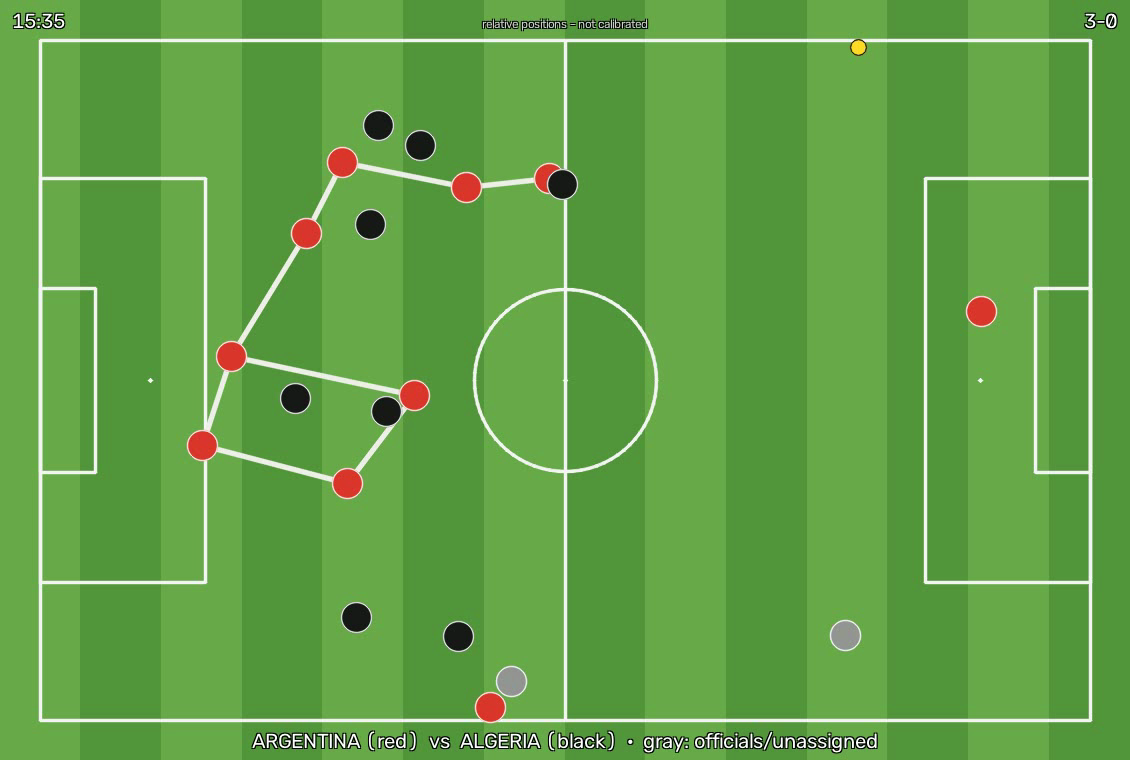
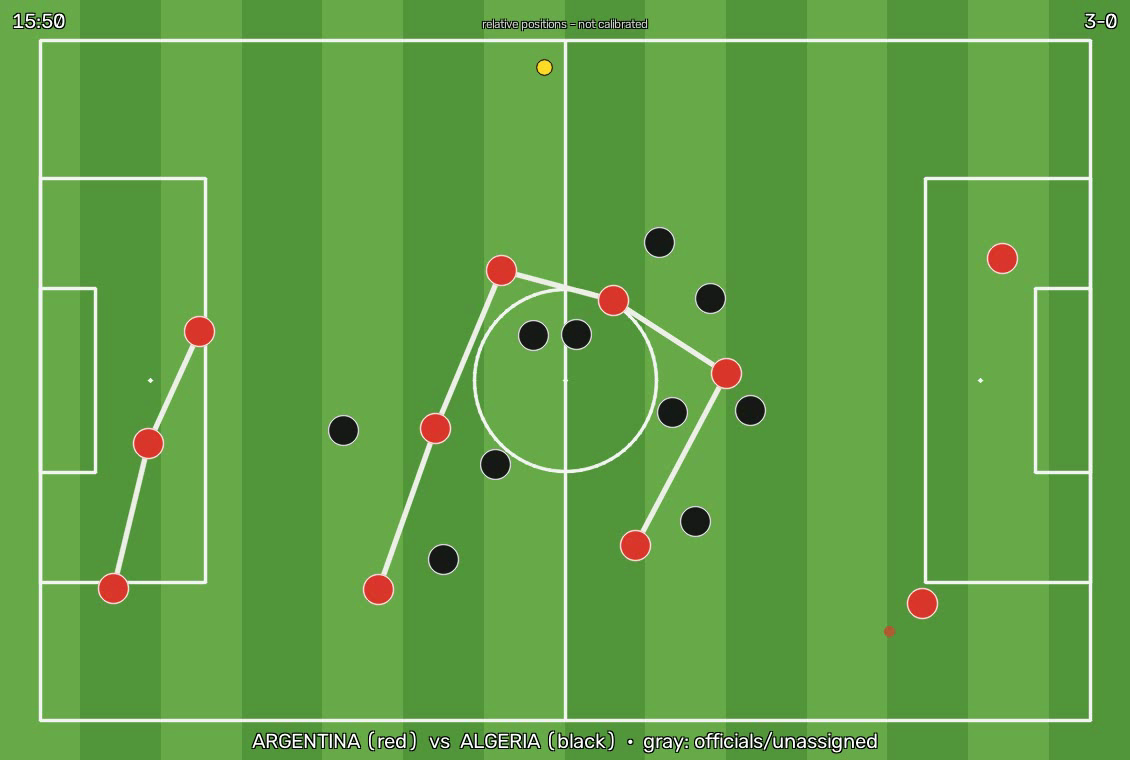
Argentina-Algeria: 11-dot cap + off-camera hold renders, ghost legend line, fresh poster/gifs

diff --git a/reports/argentina-algeria/index.html b/reports/argentina-algeria/index.html
@@ -20,6 +20,7 @@
       <img src="session_replay_full.gif" alt="2D pitch session replay — full half" class="w-full">
     </div>
     <p class="mt-2 text-xs text-slate-500">Full first half, continuous (00:00–46:59). Relative positions; calibrated metrics on key windows — see Stats.</p>
+    <p class="mt-1 text-xs text-slate-500">Hollow markers = last seen position (off-camera), cleared when the area re-enters view.</p>
     <p class="mt-1 text-xs"><a href="pitch_replay.mp4" class="text-emerald-400 hover:underline">Download as mp4</a></p>
   </section>
   <section class="mb-10">
@@ -153,7 +154,7 @@
     </div>
   </section>
   <footer class="border-t border-slate-800 pt-6 text-center text-sm text-slate-500">
-    Generated by Eleven · Processing: 22m 41s · Cost: $0.07 · 2026-07-16
+    Generated by Eleven · Processing: 22m 41s · Cost: $0.07 · 2026-07-17
   </footer>
 </main>
 </body>